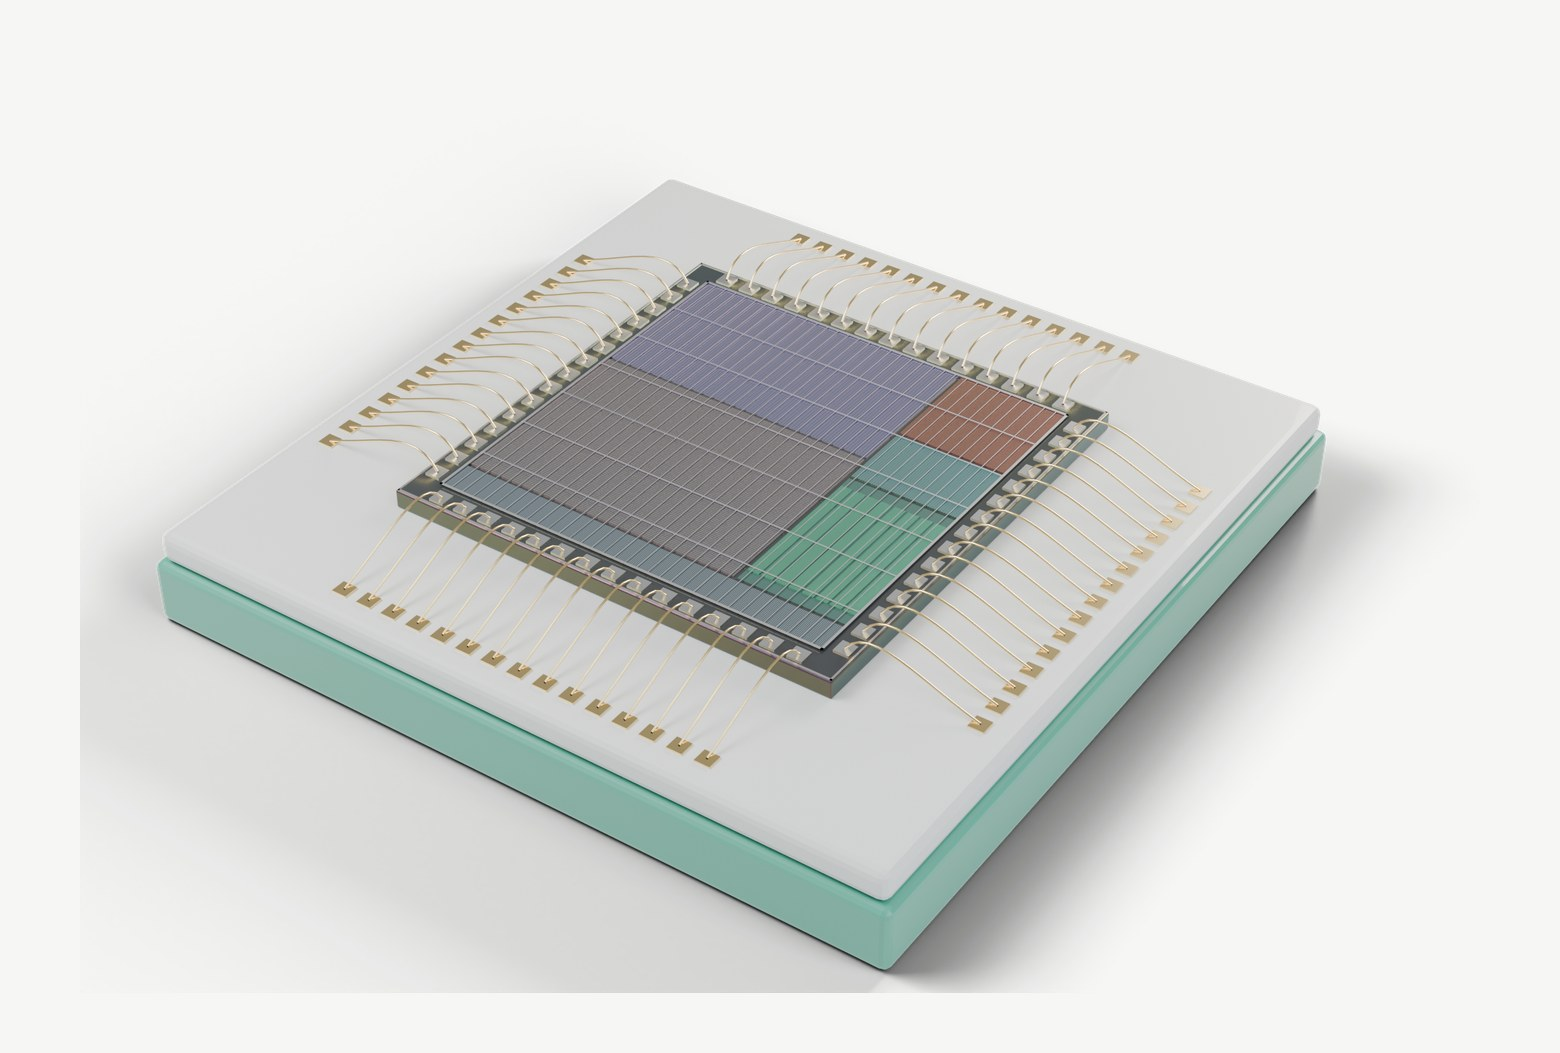
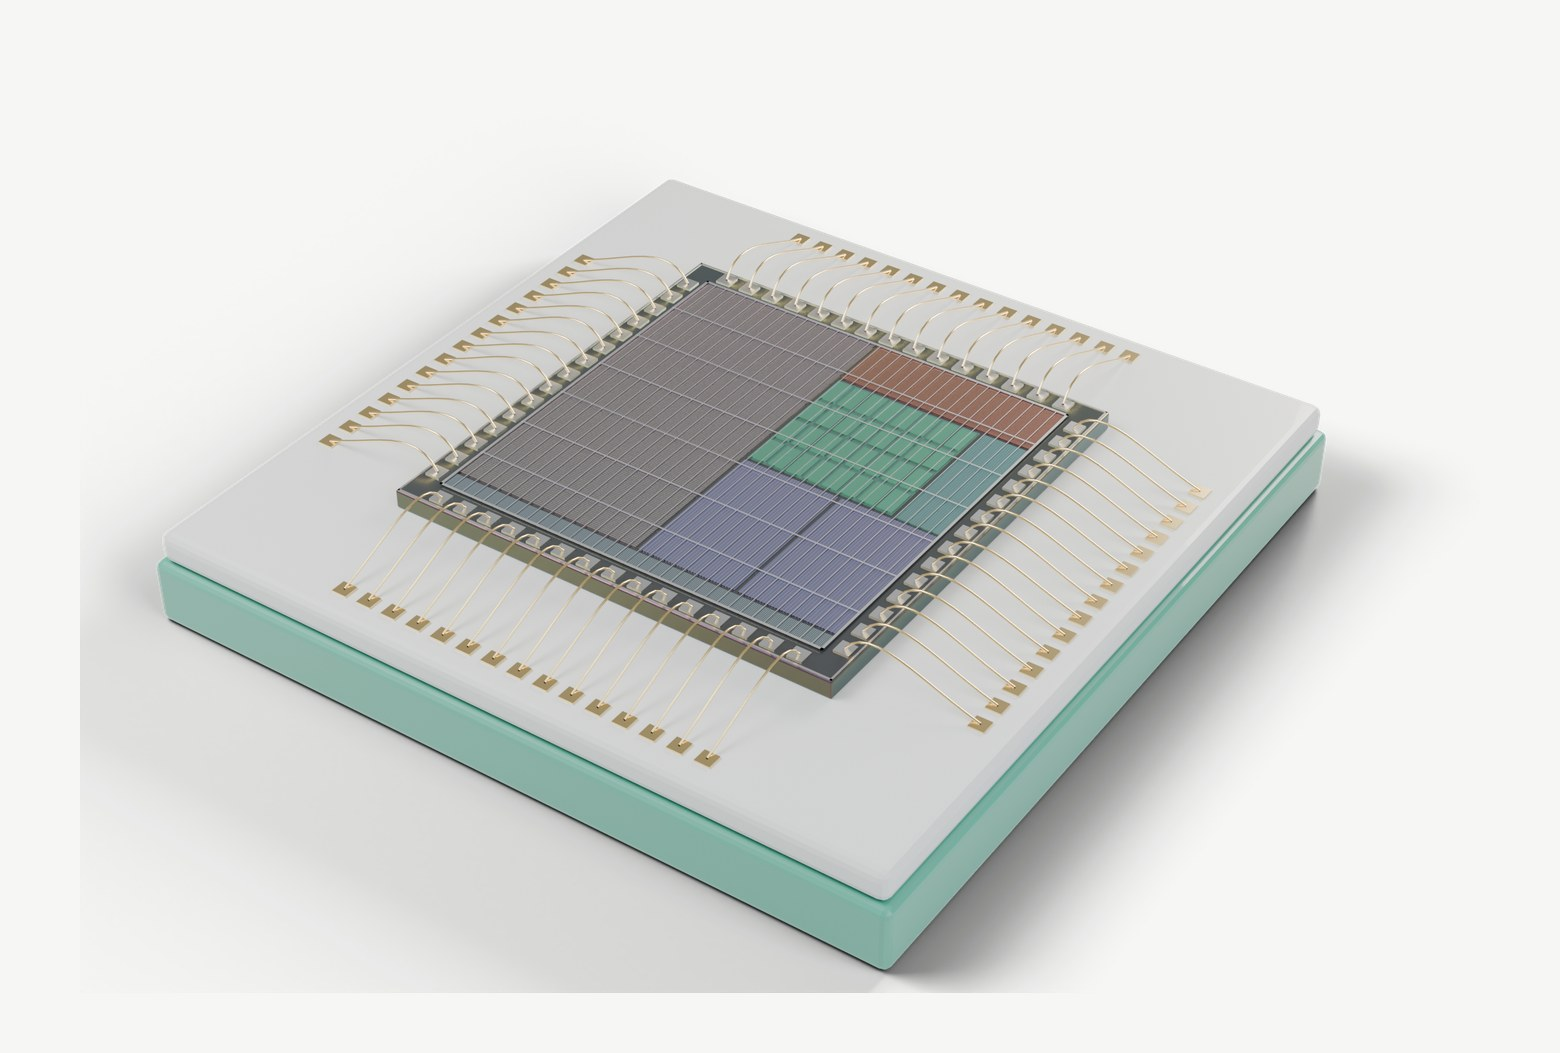
site, README: the hero render and callouts for the design the explorer now picks

Changed region(s): [[0.3692, 0.2735, 0.6769, 0.6078], [0.3077, 0.4558, 0.3692, 0.4862]]

diff --git a/site/index.html b/site/index.html
@@ -68,14 +68,14 @@
               <img src="img/die-1200.png" width="1200" height="800" alt="A rendered die designed by ChipLeap for SmolLM2 135M on the IHP SG13G2 open PDK: SRAM, logic, a GEMV engine and an octal PSRAM interface, bonded into a package.">
             </picture>
             <!-- callouts:start -->
-<div class="callout right" style="--x:50.3%;--y:32.8%;--tx:46px;--ty:-70px"><svg width="1" height="1"><line x1="0" y1="0" x2="46" y2="-52"/></svg><span class="dot"><i>1</i></span><span class="tag"><b>SRAM</b>32 KiB</span></div>
-<div class="callout right" style="--x:54.9%;--y:52.3%;--tx:40px;--ty:40px"><svg width="1" height="1"><line x1="0" y1="0" x2="40" y2="58"/></svg><span class="dot"><i>2</i></span><span class="tag"><b>GEMV engine</b>1 x 8 int8 MACs</span></div>
-<div class="callout right" style="--x:64.5%;--y:39.0%;--tx:44px;--ty:-54px"><svg width="1" height="1"><line x1="0" y1="0" x2="44" y2="-36"/></svg><span class="dot"><i>3</i></span><span class="tag"><b>RISC-V core</b>CV32E20</span></div>
-<div class="callout left" style="--x:39.8%;--y:52.8%;--tx:-48px;--ty:34px"><svg width="1" height="1"><line x1="0" y1="0" x2="-48" y2="52"/></svg><span class="dot"><i>4</i></span><span class="tag"><b>Memory interface</b>2 x octal PSRAM</span></div>
+<div class="callout right" style="--x:47.1%;--y:49.5%;--tx:46px;--ty:-70px"><svg width="1" height="1"><line x1="0" y1="0" x2="46" y2="-52"/></svg><span class="dot"><i>1</i></span><span class="tag"><b>SRAM</b>32 KiB in 2 banks</span></div>
+<div class="callout right" style="--x:56.0%;--y:41.2%;--tx:40px;--ty:40px"><svg width="1" height="1"><line x1="0" y1="0" x2="40" y2="58"/></svg><span class="dot"><i>2</i></span><span class="tag"><b>GEMV engine</b>4 x 8 int8 MACs</span></div>
+<div class="callout right" style="--x:62.3%;--y:36.0%;--tx:44px;--ty:-54px"><svg width="1" height="1"><line x1="0" y1="0" x2="44" y2="-36"/></svg><span class="dot"><i>3</i></span><span class="tag"><b>RISC-V core</b>CV32E40X</span></div>
+<div class="callout left" style="--x:39.4%;--y:53.3%;--tx:-48px;--ty:34px"><svg width="1" height="1"><line x1="0" y1="0" x2="-48" y2="52"/></svg><span class="dot"><i>4</i></span><span class="tag"><b>Memory interface</b>2 x octal PSRAM</span></div>
 <!-- callouts:end -->
           </div>
           <!-- callout-key:start -->
-<ol class="callout-key"><li><b>SRAM</b> 32 KiB</li><li><b>GEMV engine</b> 1 x 8 int8 MACs</li><li><b>RISC-V core</b> CV32E20</li><li><b>Memory interface</b> 2 x octal PSRAM</li></ol>
+<ol class="callout-key"><li><b>SRAM</b> 32 KiB in 2 banks</li><li><b>GEMV engine</b> 4 x 8 int8 MACs</li><li><b>RISC-V core</b> CV32E40X</li><li><b>Memory interface</b> 2 x octal PSRAM</li></ol>
 <!-- callout-key:end -->
           <figcaption id="hero-cap">Rendered to scale from a design ChipLeap produced: SmolLM2 135M on the open IHP 130 nm PDK.</figcaption>
         </figure>
@@ -158,10 +158,10 @@
           <p>The accelerator model is the tile schedule the generated hardware runs, so the two can be compared cycle for cycle. These results come from <code>chipleap verify</code> and the test suite on this release.</p>
         </div>
         <!-- stats:start -->
-<div class="stats"><div class="stat"><span class="num" data-to="21.0" data-dec="0" data-suffix="">21</span><span class="lab">random jobs, bit-exact against a golden model</span></div><div class="stat"><span class="num" data-to="0.0" data-dec="1" data-suffix="%">0.0%</span><span class="lab">cycle error, model against RTL, without memory stalls</span></div><div class="stat"><span class="num" data-to="27.0" data-dec="0" data-suffix="">27</span><span class="lab">X-HEEP templates rendered for the configuration</span></div><div class="stat"><span class="num" data-to="69.4" data-dec="0" data-suffix="">69<small>MHz</small></span><span class="lab">clock the routed accelerator reaches on IHP SG13G2 at the slow corner</span></div></div>
+<div class="stats"><div class="stat"><span class="num" data-to="21.0" data-dec="0" data-suffix="">21</span><span class="lab">random jobs, bit-exact against a golden model</span></div><div class="stat"><span class="num" data-to="0.0" data-dec="1" data-suffix="%">0.0%</span><span class="lab">cycle error, model against RTL, without memory stalls</span></div><div class="stat"><span class="num" data-to="27.0" data-dec="0" data-suffix="">27</span><span class="lab">X-HEEP templates rendered for the configuration</span></div><div class="stat"><span class="num" data-to="5.586" data-dec="1" data-suffix="">5.6<small>ns</small></span><span class="lab">setup slack of the routed accelerator at its 50 MHz clock, slow corner, IHP SG13G2</span></div></div>
 <!-- stats:end -->
         <!-- layout:start -->
-<div class="layout"><picture><source type="image/webp" srcset="img/layout-1200.webp"><img src="img/layout-1200.jpg" width="1000" height="1000" loading="lazy" alt="The routed layout of the 4 x 8 GEMV engine on IHP SG13G2: signal wires on four metal layers under the power grid"></picture><div><h3>And then it is placed and routed</h3><p>The same accelerator, through LibreLane on IHP SG13G2: placement, clock tree, routing, timing at every corner, DRC, LVS and antenna clean. This is the GDS it wrote, drawn in the PDK's layer colours. Its buffers are SRAM macros in silicon, cut to 16 words here.</p><dl><div><dt>Standard cells</dt><dd>60,191</dd></div><div><dt>Core area</dt><dd>1.47<small>mm²</small></dd></div><div><dt>Typical corner</dt><dd>86<small>MHz</small></dd></div><div><dt>Slow corner, 125 °C</dt><dd>69<small>MHz</small></dd></div></dl></div></div>
+<div class="layout"><picture><source type="image/webp" srcset="img/layout-1200.webp"><img src="img/layout-1200.jpg" width="1000" height="1000" loading="lazy" alt="The routed layout of the 4 x 8 GEMV engine on IHP SG13G2: signal wires on four metal layers under the power grid"></picture><div><h3>And then it is placed and routed</h3><p>The same accelerator, through LibreLane on IHP SG13G2: placement, clock tree, routing, timing at every corner, DRC, LVS and antenna clean. Routed for its 50 MHz clock, it meets timing with 5.6 ns to spare at the slow corner (hold +0.093 ns). This is the GDS it wrote, drawn in the PDK's layer colours. Its buffers are SRAM macros in silicon, cut to 16 words here.</p><dl><div><dt>Standard cells</dt><dd>60,191</dd></div><div><dt>Core area</dt><dd>1.47<small>mm²</small></dd></div><div><dt>Setup slack at 50 MHz, slow corner</dt><dd>+5.6<small>ns</small></dd></div><div><dt>Hold slack, worst corner</dt><dd>+0.093<small>ns</small></dd></div></dl></div></div>
 <!-- layout:end -->
         <!-- verify:start -->
 <div class="table-scroll"><table class="vt"><tbody><tr><th scope="row">Consistency</th><td><span class="ok">Pass</span> design.yaml, RTL wrappers, driver, register map and X-HEEP configuration agree.</td></tr><tr><th scope="row">Lint</th><td><span class="ok">Pass</span> Verilator -Wall reports no warnings on the accelerator and its memory path.</td></tr><tr><th scope="row">Simulation</th><td><span class="ok">Pass</span> 21 randomized jobs bit-exact; cycle model error 0.0% max without stalls, 2.3% mean with random stalls; over the direct path to external memory 14 jobs bit-exact, up to 8 reads in flight, cycle model error 0.0% max with X-HEEP idle, and 788 X-HEEP accesses beside them all correct.</td></tr><tr><th scope="row">Synthesis</th><td><span class="ok">Pass</span> Logic cell area 0.5329 mm² on IHP SG13G2 (model 0.5501 mm², +3%), critical path 4.15 ns, about 217 MHz.</td></tr><tr><th scope="row">X-HEEP</th><td><span class="ok">Pass</span> X-HEEP validated the configuration (2 banks, 0 interleaved) and rendered 27 templates.</td></tr><tr><th scope="row">Place and route</th><td><span class="ok">Pass</span> Placed and routed on IHP SG13G2: 1.475 mm² core at 55% utilisation, 60191 cells; 50 MHz met at the slow corner (about 69 MHz, and about 86 MHz at the typical one); DRC, LVS and antenna clean, IHP&#x27;s antenna deck included, no slew or capacitance violations; 364 drivers over the fanout limit (reported only); 16-word flop buffers: 2 DMA read ports write more than one word a cycle.</td></tr><tr><th scope="row">Model inputs</th><td><span class="ok">Tested</span> Parameter counts of all twelve LLM presets within 2% of their model cards. IHP SG13G2 SRAM area within 2% of the liberty data for every macro size. Accelerator logic area within 3% on average of synthesis across 24 configurations. The C driver plans the same tiles as the model on 6,000 random shapes.</td></tr></tbody></table></div>
